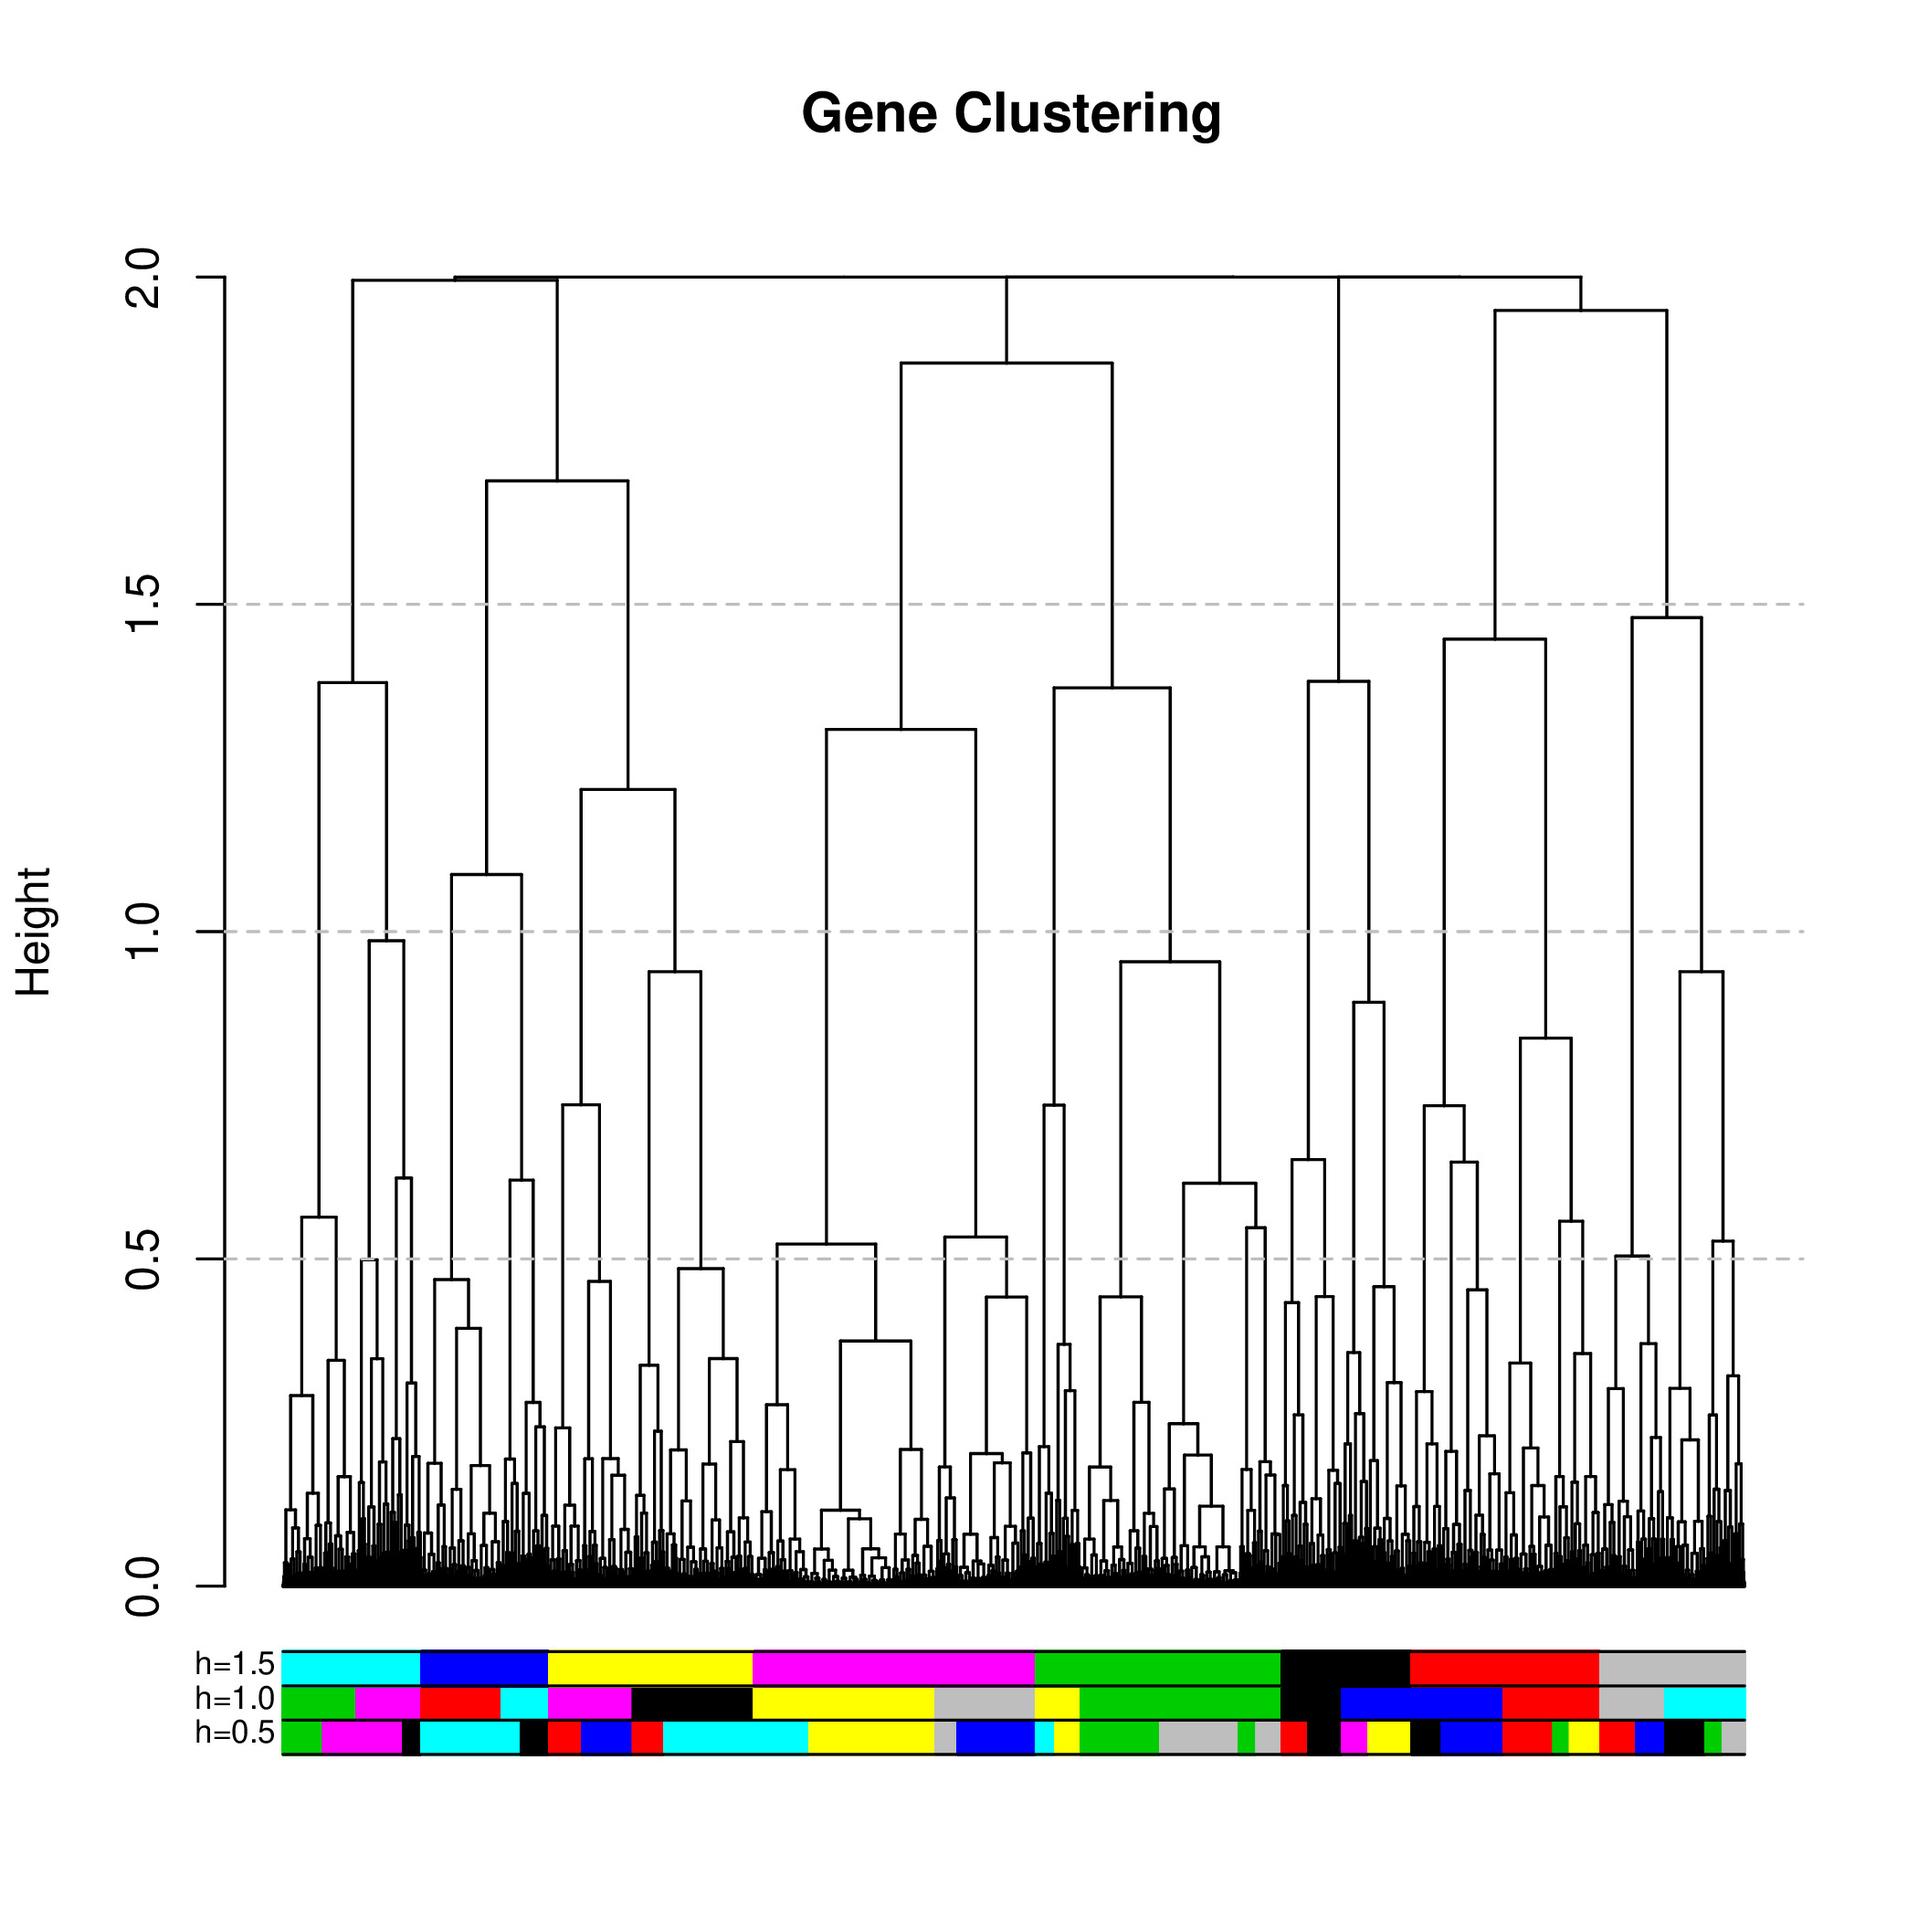
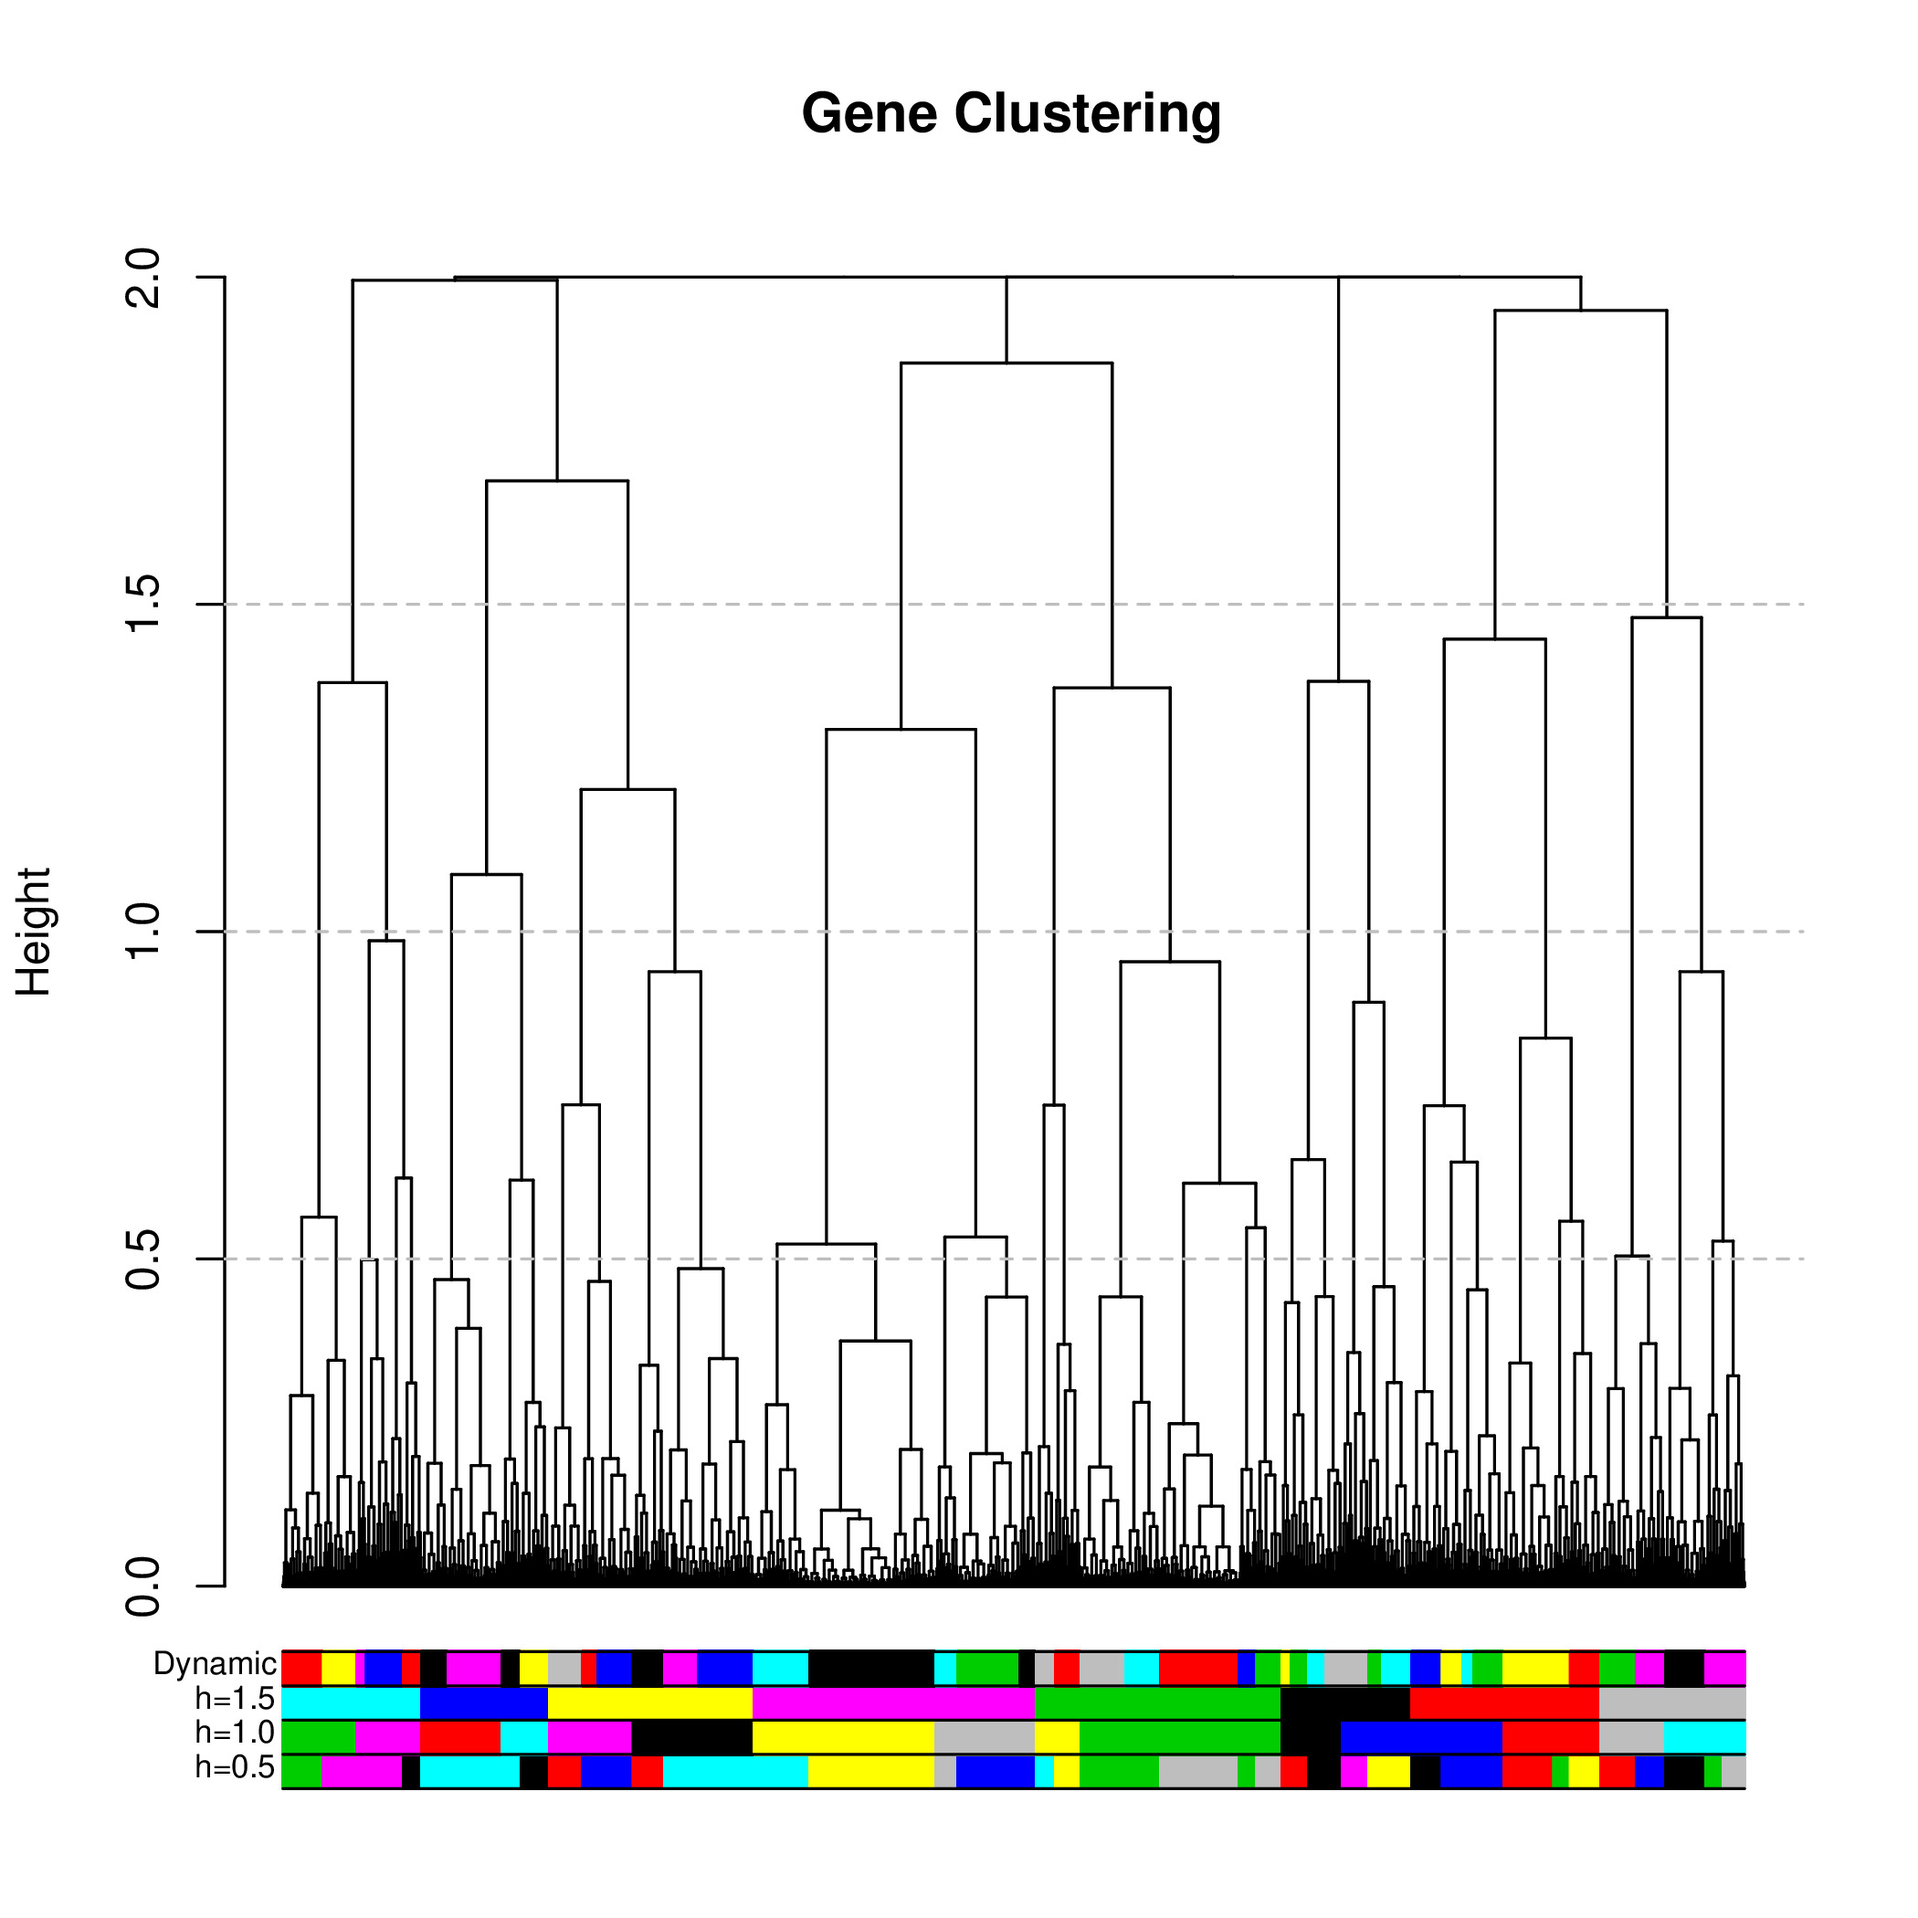
add cluster plot

Changed region(s): [[0.0929, 0.8357, 0.9286, 0.9595]]

diff --git a/KaWaiData.md b/KaWaiData.md
@@ -138,9 +138,25 @@ Flg22_SynCom35_3 Flg22_SynCom35
 
 Hierarchical clustering to find potential gene expression patterns in four conditions (`Mock`, `flg22`, `SynCom33`, and `SynCom35`). The read count of each transcript was scaled, then average value was used to represent each condition. Transcript with more than one zero counts in any of the four conditions were excluded (29161 transcripts left).
 
-* Hierarchical clustering of 29161 transcripts. Distance was calculated as `1 - Pearson's Correlation Coefficient`
+* Hierarchical clustering of 29161 transcripts. 
+
+Distance was calculated as `1 - Pearson's Correlation Coefficient`
 
 ![genetree](results/genetree.jpg)
+
+* Cut trees to get clusters
+
+  height threshold `0.5`
+  
+  ![hieracluster_0d5](results/hieracluster_0d5.jpg)
+  
+  height threshold `1.0`
+  
+  ![hieracluster_1d0.jpg](results/hieracluster_1d0.jpg)
+  
+  height threshold `1.5`
+  
+  ![hieracluster_1d5.jpg](results/hieracluster_1d5.jpg)
 
 
 
